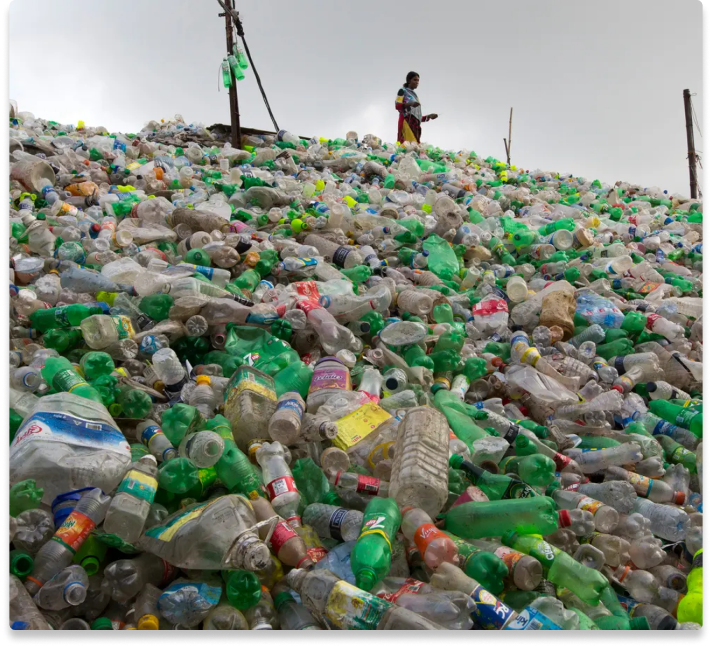
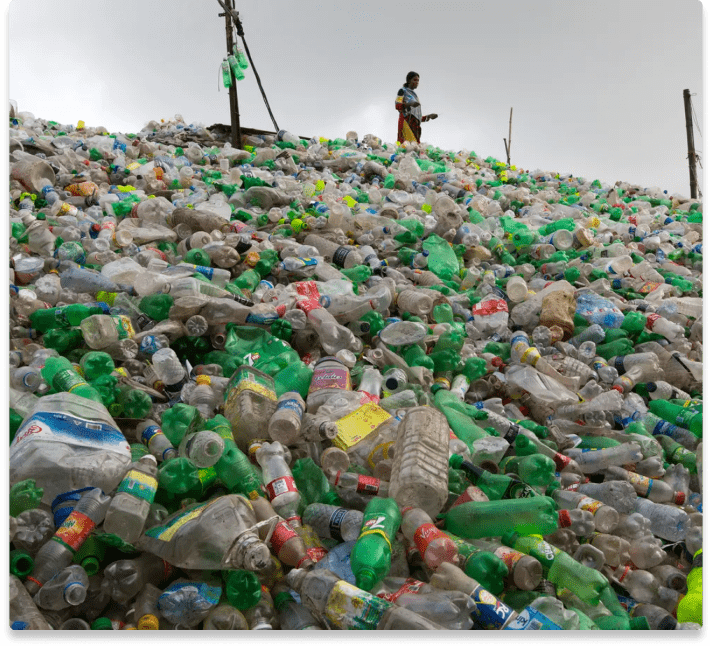
resize images

diff --git a/src/components/SustainabilityDelivered.js b/src/components/SustainabilityDelivered.js
@@ -10,7 +10,7 @@ import {
 } from "../utils/animationVariants";
 import logisticsSupportImage from "../images/backend-logistics-support.svg";
 import saveCostImage from "../images/save-costs.svg";
-import saveStorageImage from "../images/save-storage.svg";
+import saveStorageImage from "../images/save-storage.png";
 
 /**
  * The **SustainabilityDelivered** component discusses replaces how the company replaces single-use packaging with reusable stainless steel containers.
